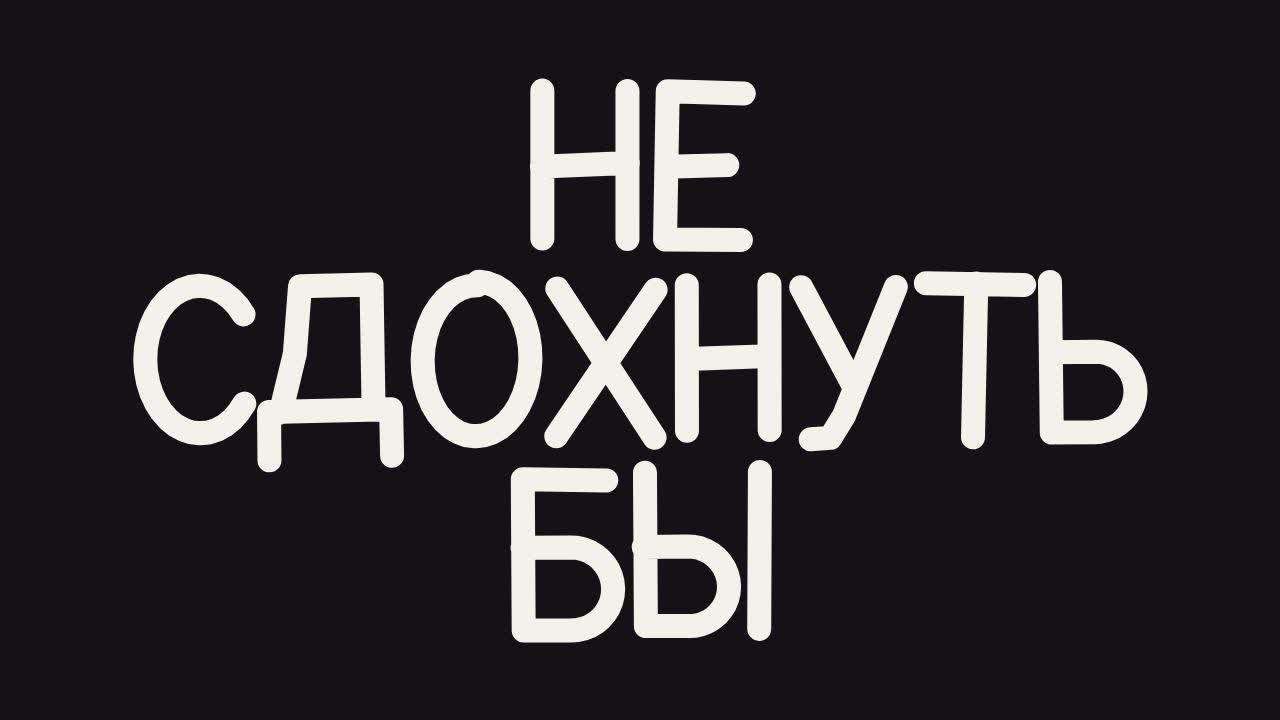
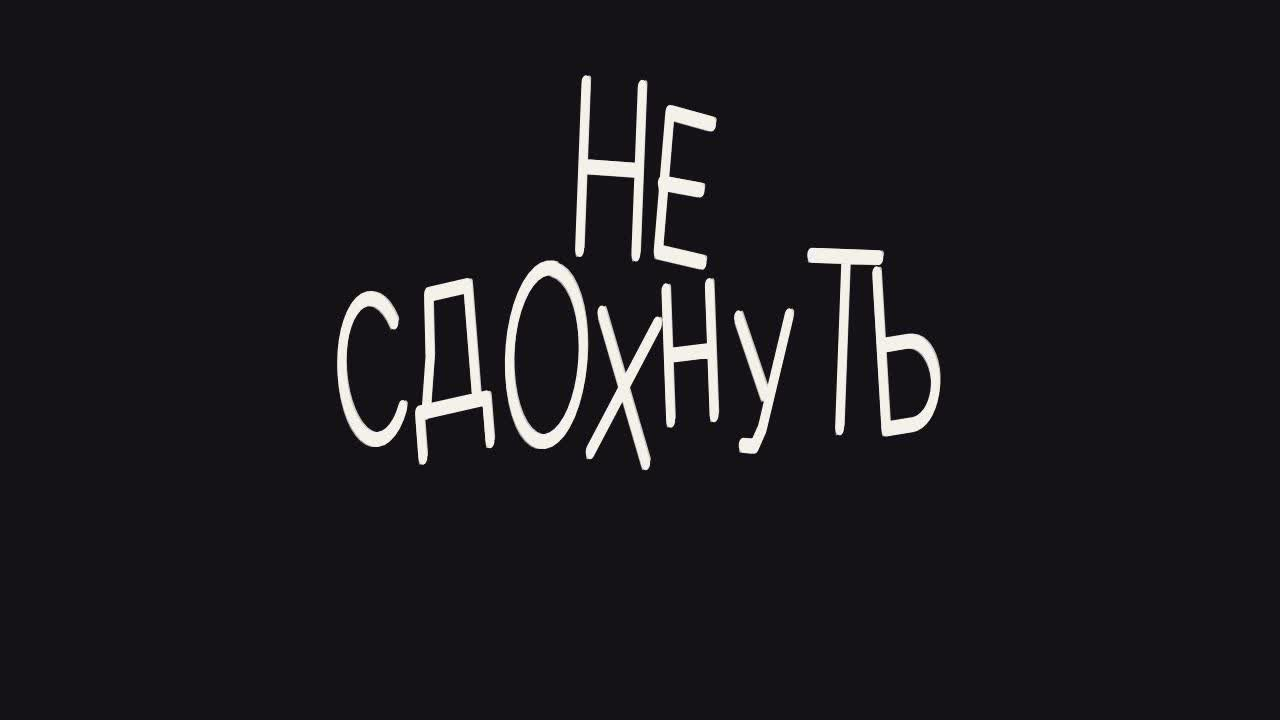
feat: break lettering in a shaking hand, under the hospital's square red cross
The break words and «хорошо-шо-шо» are written in an unsteady hand that
goes over each letter twice more out of register, with letters that
lurch and swell, so the type reads as comic-horrible rather than comic.

On «бы» the plus the stacked words make lights as the hospital's solid
red cross (the one on its roof in the ending) and the words turn to ink
on it. Every word is set at 0.6 width, so «сдохнуть» is no longer than
the upright is tall and the cross comes out square, its arms as thick
for their length as the hospital's.

Claude-Session: https://claude.ai/code/session_01DaohkEKgCkjsqiyZ6GhAjg

Changed region(s): [[0.0938, 0.0917, 0.9062, 0.9167]]

diff --git a/src/clip/widgets/meadow-party/ui/lyric-break.ts b/src/clip/widgets/meadow-party/ui/lyric-break.ts
@@ -47,7 +47,41 @@ function landing(
   ctx.restore();
 }
 
-// The neon's catch on «бы», in seconds from its onset: on, off, on, a dip, on.
+// A shaking hand going over each letter again: each pass's offset, in cap
+// heights, line width, in cap heights, and opacity.
+const PASSES = [
+  [0, 0, 0.1, 1],
+  [0.035, -0.025, 0.045, 0.8],
+  [-0.03, 0.035, 0.03, 0.65],
+] as const;
+
+/**
+ * `text` in an unsteady hand, gone over two more times out of register: a
+ * marker sign written by someone who should not be holding a marker. Its own
+ * line widths and unsteadiness replace `writing`'s.
+ */
+function scrawl(
+  pen: Pen,
+  text: string,
+  writing: Writing & { color: string },
+): void {
+  const { ctx } = pen;
+  const { letterHeight: size, x = 0, y = 0 } = writing;
+  for (const [dx, dy, weight, alpha] of PASSES) {
+    ctx.save();
+    ctx.globalAlpha *= alpha;
+    writePlain(pen, text, {
+      ...writing,
+      x: x + dx * size,
+      y: y + dy * size,
+      weight,
+      jitter: 2.2,
+    });
+    ctx.restore();
+  }
+}
+
+// The sign's catch on «бы», in seconds from its onset: on, off, on, a dip, on.
 const IGNITION = [
   [0, 1],
   [0.04, 0],
@@ -56,54 +90,40 @@ const IGNITION = [
   [0.15, 1],
 ] as const;
 
-/** How lit the pharmacy sign is `since` «бы», 0 to 1, catching as neon does. */
+/** How lit the cross is `since` «бы», 0 to 1, catching as a tube sign does. */
 const lightAt = (since: number): number =>
   IGNITION.findLast(([at]) => since >= at)?.[1] ?? 0;
 
 // Half the stacked words' width and height, in stage units, with room round
-// them: the middle line is the cross's bar, the short ones its upright.
-const UPRIGHT = [185, 330] as const;
-const BAR = [505, 120] as const;
+// them: the middle line is the cross's bar, the short ones its upright, the
+// arms alike and as thick for their length as the hospital's.
+const UPRIGHT = [125, 335] as const;
+const BAR = [335, 125] as const;
+// How narrow the words are set, so «сдохнуть» is no longer than the upright
+// is tall and «не» fits the upright.
+const CONDENSED = 0.6;
 
 /**
- * The stacked words' outline, a plus that is a pharmacy's green cross once
- * «бы» lands under «не» — the shape the words already make.
+ * The hospital's red cross, solid, in the plus the stacked words already
+ * make once «бы» lands under «не».
  */
-function pharmacyCross(pen: Pen, lit: number): void {
+function hospitalCross(pen: Pen, lit: number): void {
   const { ctx } = pen;
   const [cx, cy] = [STAGE.width / 2, STAGE.height / 2];
   const [uw, uh] = UPRIGHT;
   const [bw, bh] = BAR;
-  const corners: ReadonlyArray<readonly [number, number]> = [
-    [-uw, -uh],
-    [uw, -uh],
-    [uw, -bh],
-    [bw, -bh],
-    [bw, bh],
-    [uw, bh],
-    [uw, uh],
-    [-uw, uh],
-    [-uw, bh],
-    [-bw, bh],
-    [-bw, -bh],
-    [-uw, -bh],
-  ];
-  ctx.beginPath();
-  for (const [x, y] of corners) ctx.lineTo(cx + x, cy + y);
-  ctx.closePath();
   ctx.save();
-  ctx.lineJoin = 'round';
   ctx.globalAlpha *= lit;
-  ctx.strokeStyle = PARTY_PALETTE.pharmacy;
-  ctx.lineWidth = 12;
-  ctx.stroke();
+  ctx.fillStyle = PARTY_PALETTE.cross;
+  ctx.fillRect(cx - uw, cy - uh, 2 * uw, 2 * uh);
+  ctx.fillRect(cx - bw, cy - bh, 2 * bw, 2 * bh);
   ctx.restore();
 }
 
 /**
  * Black, and nothing on it but the words sung so far, stacked a line each and
  * built up word by word, each slamming down on its onset and jolting the ones
- * above it.
+ * above it; on «бы» the hospital's cross lights behind them.
  */
 export const lyricBreak: Drawing = (pen) => {
   const { ctx, playhead } = pen;
@@ -118,29 +138,22 @@ export const lyricBreak: Drawing = (pen) => {
       : 0;
   const pitch = LETTER_HEIGHT * LEADING;
   const top = (STAGE.height - pitch * (BREAK_WORDS.length - 1)) / 2;
-  ctx.save();
-  if (lit > 0) {
-    ctx.shadowColor = PARTY_PALETTE.pharmacy;
-    ctx.shadowBlur = 28 * lit;
-    pharmacyCross(pen, lit);
-  }
+  if (lit > 0) hospitalCross(pen, lit);
   for (const [n, [word]] of sung.entries()) {
     const fresh = n === sung.length - 1;
     const centre = [STAGE.width / 2, top + n * pitch] as const;
     landing(pen, centre, (fresh ? 0.35 : 0.04) * slam, () => {
-      writePlain(pen, word, {
+      ctx.scale(CONDENSED, 1);
+      scrawl(pen, word, {
         x: 0,
         y: -LETTER_HEIGHT / 2,
         letterHeight: LETTER_HEIGHT,
         alignment: 'center',
-        weight: 0.16,
-        jitter: 0.25,
-        color: lit > 0.5 ? PARTY_PALETTE.pharmacy : PARTY_PALETTE.lyric,
+        color: lit > 0.5 ? INK_PALETTE.ink : PARTY_PALETTE.lyric,
         seed: 70 + n,
       });
     });
   }
-  ctx.restore();
 };
 
 /** `text` in the break's hand, its baseline at `y`, shadowed in ink to read over a picture. */
@@ -152,21 +165,15 @@ function echoWord(
   alignment: Writing['alignment'],
   seed: number,
 ): void {
-  const style = {
-    letterHeight: height,
-    alignment,
-    weight: 0.16,
-    jitter: 0.25,
-    seed,
-  };
+  const style = { letterHeight: height, alignment, seed };
   const shadow = height * 0.06;
-  writePlain(pen, text, {
+  scrawl(pen, text, {
     ...style,
     x: x + shadow,
     y: y - height + shadow,
     color: INK_PALETTE.ink,
   });
-  writePlain(pen, text, {
+  scrawl(pen, text, {
     ...style,
     x,
     y: y - height,

diff --git a/src/clip/widgets/meadow-party/ui/palette-meadow-party.ts b/src/clip/widgets/meadow-party/ui/palette-meadow-party.ts
@@ -7,6 +7,6 @@ export const PARTY_PALETTE = {
   blush: '#ff7ac8',
   /** The words on black before the meadow bursts in. */
   lyric: '#f4f1ea',
-  /** A chemist's sign: the neon green its cross burns in. */
-  pharmacy: '#21f07a',
+  /** The hospital's red cross, the one on its roof, lit behind the words. */
+  cross: '#d8262c',
 } as const;

diff --git a/docs/remove-before-merging/horowo-clip-lrxscd/w3-C-notes.md b/docs/remove-before-merging/horowo-clip-lrxscd/w3-C-notes.md
@@ -10,10 +10,10 @@ Branch `claude/horowo-clip-w3-c-lrxscd`. The brief is `wave-3.md` § C.
   - After that, the rotation cuts on every pulse following `ROTATION`: M is the meadow, W the ward wall, A the aerobics show, I the next entry of `STORYLINES`. `STORYLINES` is the pool the lead appends to (rocket ears, spoon bunny).
   - The ward's four W runs gouge «ХОРОШО» a quarter further each, and the last one finishes it.
 - **`@/clip/widgets/meadow-party`** holds the meadow (`meadowParty`, `meadowBurst`, `FRAMINGS`) and the lettering in `ui/lyric-break.ts`:
-  - **`lyricBreak`** (a full shot): black, with «НЕ» / «НЕ СДОХНУТЬ» / «НЕ СДОХНУТЬ БЫ» stacked, each word landing on its onset in words.ts. «от» is never shown. The three lines make a plus, so on «бы» the words turn pharmacy-neon green and a green neon cross outline catches around them (on, off, on, dip, on over 0.15 s), holding to the meadow cut. The operator's idea: «похожа форма на аптечный крест, давай обыграем».
+  - **`lyricBreak`** (a full shot): black, with «НЕ» / «НЕ СДОХНУТЬ» / «НЕ СДОХНУТЬ БЫ» stacked, each word landing on its onset in words.ts. «от» is never shown. The words are written in an unsteady hand that goes over each letter again out of register (`scrawl`), because the operator asked for «комично-ужасный», not just comic. The three lines make a plus, so on «бы» the hospital's solid red cross (the one on its roof in the ending) lights behind them, catching like a tube sign (on, off, on, dip, on over 0.15 s), and the words turn to ink on it, holding to the meadow cut. Every word is set at 0.6 width (`CONDENSED`), so the cross is square, its arms as thick for their length as the hospital's (operator: «"сдохнуть" можно более узким шрифтом, чтобы крест получился квадратным»). The operator first suggested «похожа форма на аптечный крест, давай обыграем», then pointed at the hospital's cross.
   - **`echoLines`** (letters only, no ground): «хорошо-шо-шо» stacked in the same hand. The lines are «ХОРОШО», then «ХОРО»+«ШО» with ШО larger, then «ХОРО»+«ШО» larger still. The lettering has no lower case, so the case contrast is drawn as size. The lines appear at words.ts's 42.56 / 43.04 / 43.32, each shadowed in ink to read over a picture.
 - **`@/clip/widgets/channels`**: `aerobics(nearness)` is the morning-exercise show (`ui/aerobics.ts`). Its backing line freezes and stares from nearness 0.55–0.68. The chorus plays it at nearness 0.5→0.75.
-- Palette entries: `PARTY_PALETTE.lyric` and `.pharmacy`; `CHANNELS_PALETTE.aerobics.band` and `.count`.
+- Palette entries: `PARTY_PALETTE.lyric` and `.cross`; `CHANNELS_PALETTE.aerobics.band` and `.count`.
 
 ## How the lead wires `echoLines`
 
